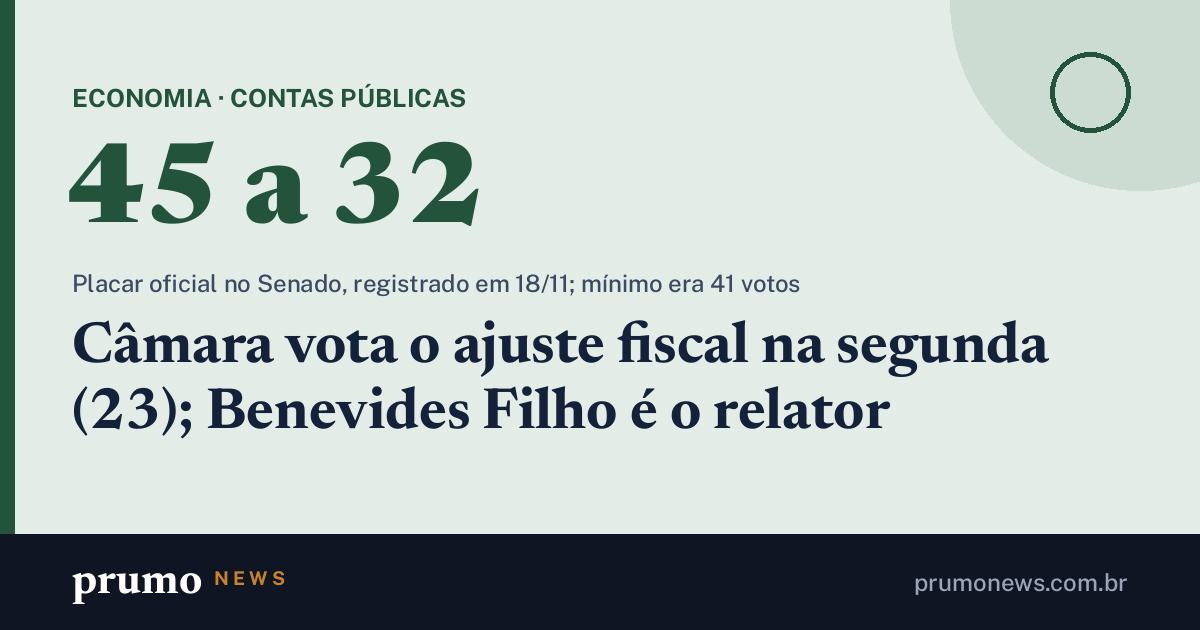
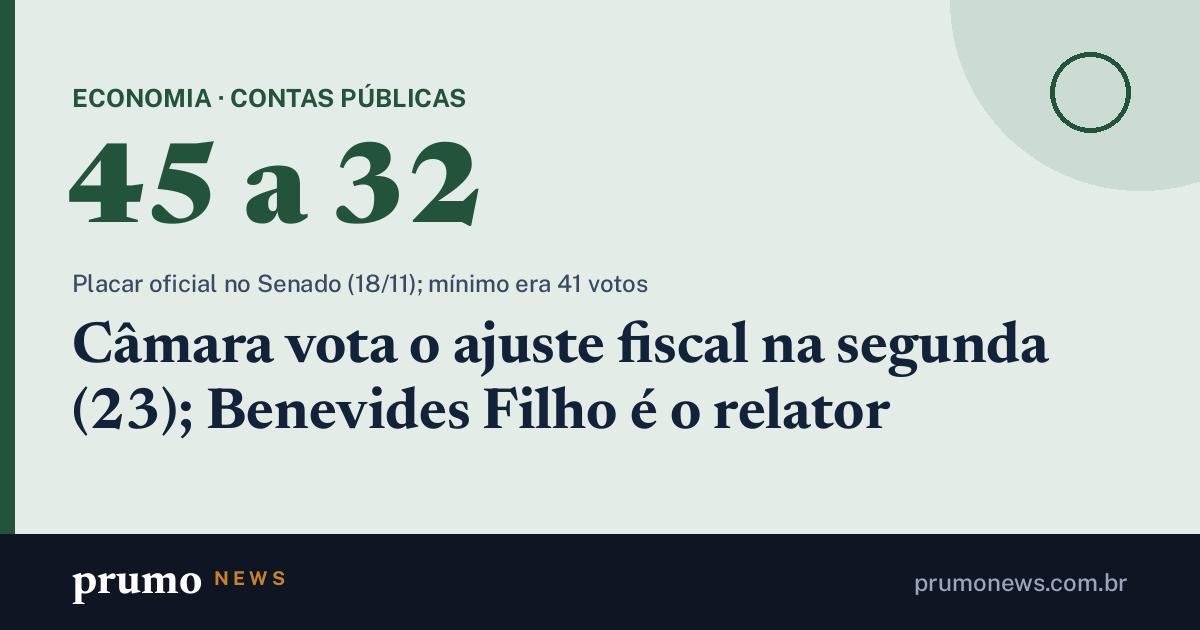
Páginas de compartilhamento 21/11 01h27

Changed region(s): [[0.2775, 0.4222, 0.6783, 0.4825]]

diff --git a/m/enem-2026-reta-final-app-idioma.html b/m/enem-2026-reta-final-app-idioma.html
@@ -3,20 +3,20 @@
 <head>
 <meta charset="utf-8">
 <meta name="viewport" content="width=device-width, initial-scale=1">
-<title>Pedidos de reaplicação do Enem terminam sexta (20); questão 159 é anulada · Prumo News</title>
-<meta name="description" content="Último dia para pedir reaplicação é sexta (20); a prova é em 15 e 16/12 e as notas saem em 18/01/2027.">
-<link rel="canonical" href="https://prumonews.com.br/m/pedidos-de-reaplicacao-do-enem-terminam-sexta-20-questao-159-e-anulada.html">
+<title>Pedido de reaplicação do Enem acabou na sexta (20) · Prumo News</title>
+<meta name="description" content="O pedido de reaplicação acabou na sexta (20); a prova é em 15 e 16/12 e as notas saem em 18/01/2027.">
+<link rel="canonical" href="https://prumonews.com.br/m/pedido-de-reaplicacao-do-enem-acabou-na-sexta-20.html">
 <meta property="og:type" content="article">
 <meta property="og:site_name" content="Prumo News">
 <meta property="og:locale" content="pt_BR">
-<meta property="og:title" content="Pedidos de reaplicação do Enem terminam sexta (20); questão 159 é anulada">
-<meta property="og:description" content="Último dia para pedir reaplicação é sexta (20); a prova é em 15 e 16/12 e as notas saem em 18/01/2027.">
-<meta property="og:url" content="https://prumonews.com.br/m/pedidos-de-reaplicacao-do-enem-terminam-sexta-20-questao-159-e-anulada.html">
+<meta property="og:title" content="Pedido de reaplicação do Enem acabou na sexta (20)">
+<meta property="og:description" content="O pedido de reaplicação acabou na sexta (20); a prova é em 15 e 16/12 e as notas saem em 18/01/2027.">
+<meta property="og:url" content="https://prumonews.com.br/m/pedido-de-reaplicacao-do-enem-acabou-na-sexta-20.html">
 <meta property="og:image" content="https://upload.wikimedia.org/wikipedia/commons/thumb/e/e9/Fachada_do_Minist%C3%A9rio_da_Educa%C3%A7%C3%A3o_%28MEC%29_%2815835268074%29.jpg/960px-Fachada_do_Minist%C3%A9rio_da_Educa%C3%A7%C3%A3o_%28MEC%29_%2815835268074%29.jpg">
 <meta name="twitter:card" content="summary_large_image">
 <meta name="theme-color" content="#0f1522">
 <script>location.replace("/#m=enem-2026-reta-final-app-idioma")</script>
 <style>body{margin:0;font:16px/1.5 system-ui,sans-serif;background:#0f1522;color:#e8ecf2;display:grid;place-items:center;min-height:100vh;padding:24px;box-sizing:border-box;text-align:center}a{color:#e6b673}</style>
 </head>
-<body><p><a href="/#m=enem-2026-reta-final-app-idioma">Pedidos de reaplicação do Enem terminam sexta (20); questão 159 é anulada</a><br>Abrindo no Prumo News…</p></body>
+<body><p><a href="/#m=enem-2026-reta-final-app-idioma">Pedido de reaplicação do Enem acabou na sexta (20)</a><br>Abrindo no Prumo News…</p></body>
 </html>

diff --git a/m/cop31-turquia-abertura.html b/m/cop31-turquia-abertura.html
@@ -3,20 +3,20 @@
 <head>
 <meta charset="utf-8">
 <meta name="viewport" content="width=device-width, initial-scale=1">
-<title>COP31 termina na sexta (20), em Antália · Prumo News</title>
-<meta name="description" content="O metano ganha cerca de US$ 505 milhões; a conferência termina na sexta (20) com financiamento e fósseis em negociação.">
-<link rel="canonical" href="https://prumonews.com.br/m/cop31-termina-na-sexta-20-em-antalia.html">
+<title>COP31 passou do prazo de sexta (20) sem texto final divulgado até a noite · Prumo News</title>
+<meta name="description" content="O metano ganhou cerca de US$ 505 milhões; financiamento e combustíveis fósseis seguiam sem acordo na noite de sexta (20).">
+<link rel="canonical" href="https://prumonews.com.br/m/cop31-passou-do-prazo-de-sexta-20-sem-texto-final-divulgado-ate-a.html">
 <meta property="og:type" content="article">
 <meta property="og:site_name" content="Prumo News">
 <meta property="og:locale" content="pt_BR">
-<meta property="og:title" content="COP31 termina na sexta (20), em Antália">
-<meta property="og:description" content="O metano ganha cerca de US$ 505 milhões; a conferência termina na sexta (20) com financiamento e fósseis em negociação.">
-<meta property="og:url" content="https://prumonews.com.br/m/cop31-termina-na-sexta-20-em-antalia.html">
+<meta property="og:title" content="COP31 passou do prazo de sexta (20) sem texto final divulgado até a noite">
+<meta property="og:description" content="O metano ganhou cerca de US$ 505 milhões; financiamento e combustíveis fósseis seguiam sem acordo na noite de sexta (20).">
+<meta property="og:url" content="https://prumonews.com.br/m/cop31-passou-do-prazo-de-sexta-20-sem-texto-final-divulgado-ate-a.html">
 <meta property="og:image" content="https://upload.wikimedia.org/wikipedia/commons/thumb/8/81/Bonn_climate_change_conference_may_2012_02.jpg/960px-Bonn_climate_change_conference_may_2012_02.jpg">
 <meta name="twitter:card" content="summary_large_image">
 <meta name="theme-color" content="#0f1522">
 <script>location.replace("/#m=cop31-turquia-abertura")</script>
 <style>body{margin:0;font:16px/1.5 system-ui,sans-serif;background:#0f1522;color:#e8ecf2;display:grid;place-items:center;min-height:100vh;padding:24px;box-sizing:border-box;text-align:center}a{color:#e6b673}</style>
 </head>
-<body><p><a href="/#m=cop31-turquia-abertura">COP31 termina na sexta (20), em Antália</a><br>Abrindo no Prumo News…</p></body>
+<body><p><a href="/#m=cop31-turquia-abertura">COP31 passou do prazo de sexta (20) sem texto final divulgado até a noite</a><br>Abrindo no Prumo News…</p></body>
 </html>

diff --git a/m/cop31-passou-do-prazo-de-sexta-20-sem-texto-final-divulgado-ate-a.html b/m/cop31-passou-do-prazo-de-sexta-20-sem-texto-final-divulgado-ate-a.html
@@ -1,0 +1,22 @@
+<!doctype html>
+<html lang="pt-BR">
+<head>
+<meta charset="utf-8">
+<meta name="viewport" content="width=device-width, initial-scale=1">
+<title>COP31 passou do prazo de sexta (20) sem texto final divulgado até a noite · Prumo News</title>
+<meta name="description" content="O metano ganhou cerca de US$ 505 milhões; financiamento e combustíveis fósseis seguiam sem acordo na noite de sexta (20).">
+<link rel="canonical" href="https://prumonews.com.br/m/cop31-passou-do-prazo-de-sexta-20-sem-texto-final-divulgado-ate-a.html">
+<meta property="og:type" content="article">
+<meta property="og:site_name" content="Prumo News">
+<meta property="og:locale" content="pt_BR">
+<meta property="og:title" content="COP31 passou do prazo de sexta (20) sem texto final divulgado até a noite">
+<meta property="og:description" content="O metano ganhou cerca de US$ 505 milhões; financiamento e combustíveis fósseis seguiam sem acordo na noite de sexta (20).">
+<meta property="og:url" content="https://prumonews.com.br/m/cop31-passou-do-prazo-de-sexta-20-sem-texto-final-divulgado-ate-a.html">
+<meta property="og:image" content="https://upload.wikimedia.org/wikipedia/commons/thumb/8/81/Bonn_climate_change_conference_may_2012_02.jpg/960px-Bonn_climate_change_conference_may_2012_02.jpg">
+<meta name="twitter:card" content="summary_large_image">
+<meta name="theme-color" content="#0f1522">
+<script>location.replace("/#m=cop31-turquia-abertura")</script>
+<style>body{margin:0;font:16px/1.5 system-ui,sans-serif;background:#0f1522;color:#e8ecf2;display:grid;place-items:center;min-height:100vh;padding:24px;box-sizing:border-box;text-align:center}a{color:#e6b673}</style>
+</head>
+<body><p><a href="/#m=cop31-turquia-abertura">COP31 passou do prazo de sexta (20) sem texto final divulgado até a noite</a><br>Abrindo no Prumo News…</p></body>
+</html>

diff --git a/m/pedido-de-reaplicacao-do-enem-acabou-na-sexta-20.html b/m/pedido-de-reaplicacao-do-enem-acabou-na-sexta-20.html
@@ -1,0 +1,22 @@
+<!doctype html>
+<html lang="pt-BR">
+<head>
+<meta charset="utf-8">
+<meta name="viewport" content="width=device-width, initial-scale=1">
+<title>Pedido de reaplicação do Enem acabou na sexta (20) · Prumo News</title>
+<meta name="description" content="O pedido de reaplicação acabou na sexta (20); a prova é em 15 e 16/12 e as notas saem em 18/01/2027.">
+<link rel="canonical" href="https://prumonews.com.br/m/pedido-de-reaplicacao-do-enem-acabou-na-sexta-20.html">
+<meta property="og:type" content="article">
+<meta property="og:site_name" content="Prumo News">
+<meta property="og:locale" content="pt_BR">
+<meta property="og:title" content="Pedido de reaplicação do Enem acabou na sexta (20)">
+<meta property="og:description" content="O pedido de reaplicação acabou na sexta (20); a prova é em 15 e 16/12 e as notas saem em 18/01/2027.">
+<meta property="og:url" content="https://prumonews.com.br/m/pedido-de-reaplicacao-do-enem-acabou-na-sexta-20.html">
+<meta property="og:image" content="https://upload.wikimedia.org/wikipedia/commons/thumb/e/e9/Fachada_do_Minist%C3%A9rio_da_Educa%C3%A7%C3%A3o_%28MEC%29_%2815835268074%29.jpg/960px-Fachada_do_Minist%C3%A9rio_da_Educa%C3%A7%C3%A3o_%28MEC%29_%2815835268074%29.jpg">
+<meta name="twitter:card" content="summary_large_image">
+<meta name="theme-color" content="#0f1522">
+<script>location.replace("/#m=enem-2026-reta-final-app-idioma")</script>
+<style>body{margin:0;font:16px/1.5 system-ui,sans-serif;background:#0f1522;color:#e8ecf2;display:grid;place-items:center;min-height:100vh;padding:24px;box-sizing:border-box;text-align:center}a{color:#e6b673}</style>
+</head>
+<body><p><a href="/#m=enem-2026-reta-final-app-idioma">Pedido de reaplicação do Enem acabou na sexta (20)</a><br>Abrindo no Prumo News…</p></body>
+</html>

diff --git a/m/ajuste-fiscal-lula-4.html b/m/ajuste-fiscal-lula-4.html
@@ -12,7 +12,7 @@
 <meta property="og:title" content="Câmara vota o ajuste fiscal na segunda (23); Benevides Filho é o relator">
 <meta property="og:description" content="O projeto precisa de 257 votos na Câmara; parte da bancada do PT resiste, e o relator estima melhora de até R$ 56,1 bi no primário de 2027.">
 <meta property="og:url" content="https://prumonews.com.br/m/camara-vota-o-ajuste-fiscal-na-segunda-23-benevides-filho-e-o-relator.html">
-<meta property="og:image" content="https://prumonews.com.br/og-padrao.png">
+<meta property="og:image" content="https://prumonews.com.br/m/og/ajuste-fiscal-lula-4.jpg?v=b0c33462ba">
 <meta property="og:image:width" content="1200">
 <meta property="og:image:height" content="630">
 <meta name="twitter:card" content="summary_large_image">

diff --git a/m/camara-vota-o-ajuste-fiscal-na-segunda-23-benevides-filho-e-o-relator.html b/m/camara-vota-o-ajuste-fiscal-na-segunda-23-benevides-filho-e-o-relator.html
@@ -12,7 +12,7 @@
 <meta property="og:title" content="Câmara vota o ajuste fiscal na segunda (23); Benevides Filho é o relator">
 <meta property="og:description" content="O projeto precisa de 257 votos na Câmara; parte da bancada do PT resiste, e o relator estima melhora de até R$ 56,1 bi no primário de 2027.">
 <meta property="og:url" content="https://prumonews.com.br/m/camara-vota-o-ajuste-fiscal-na-segunda-23-benevides-filho-e-o-relator.html">
-<meta property="og:image" content="https://prumonews.com.br/og-padrao.png">
+<meta property="og:image" content="https://prumonews.com.br/m/og/ajuste-fiscal-lula-4.jpg?v=b0c33462ba">
 <meta property="og:image:width" content="1200">
 <meta property="og:image:height" content="630">
 <meta name="twitter:card" content="summary_large_image">
